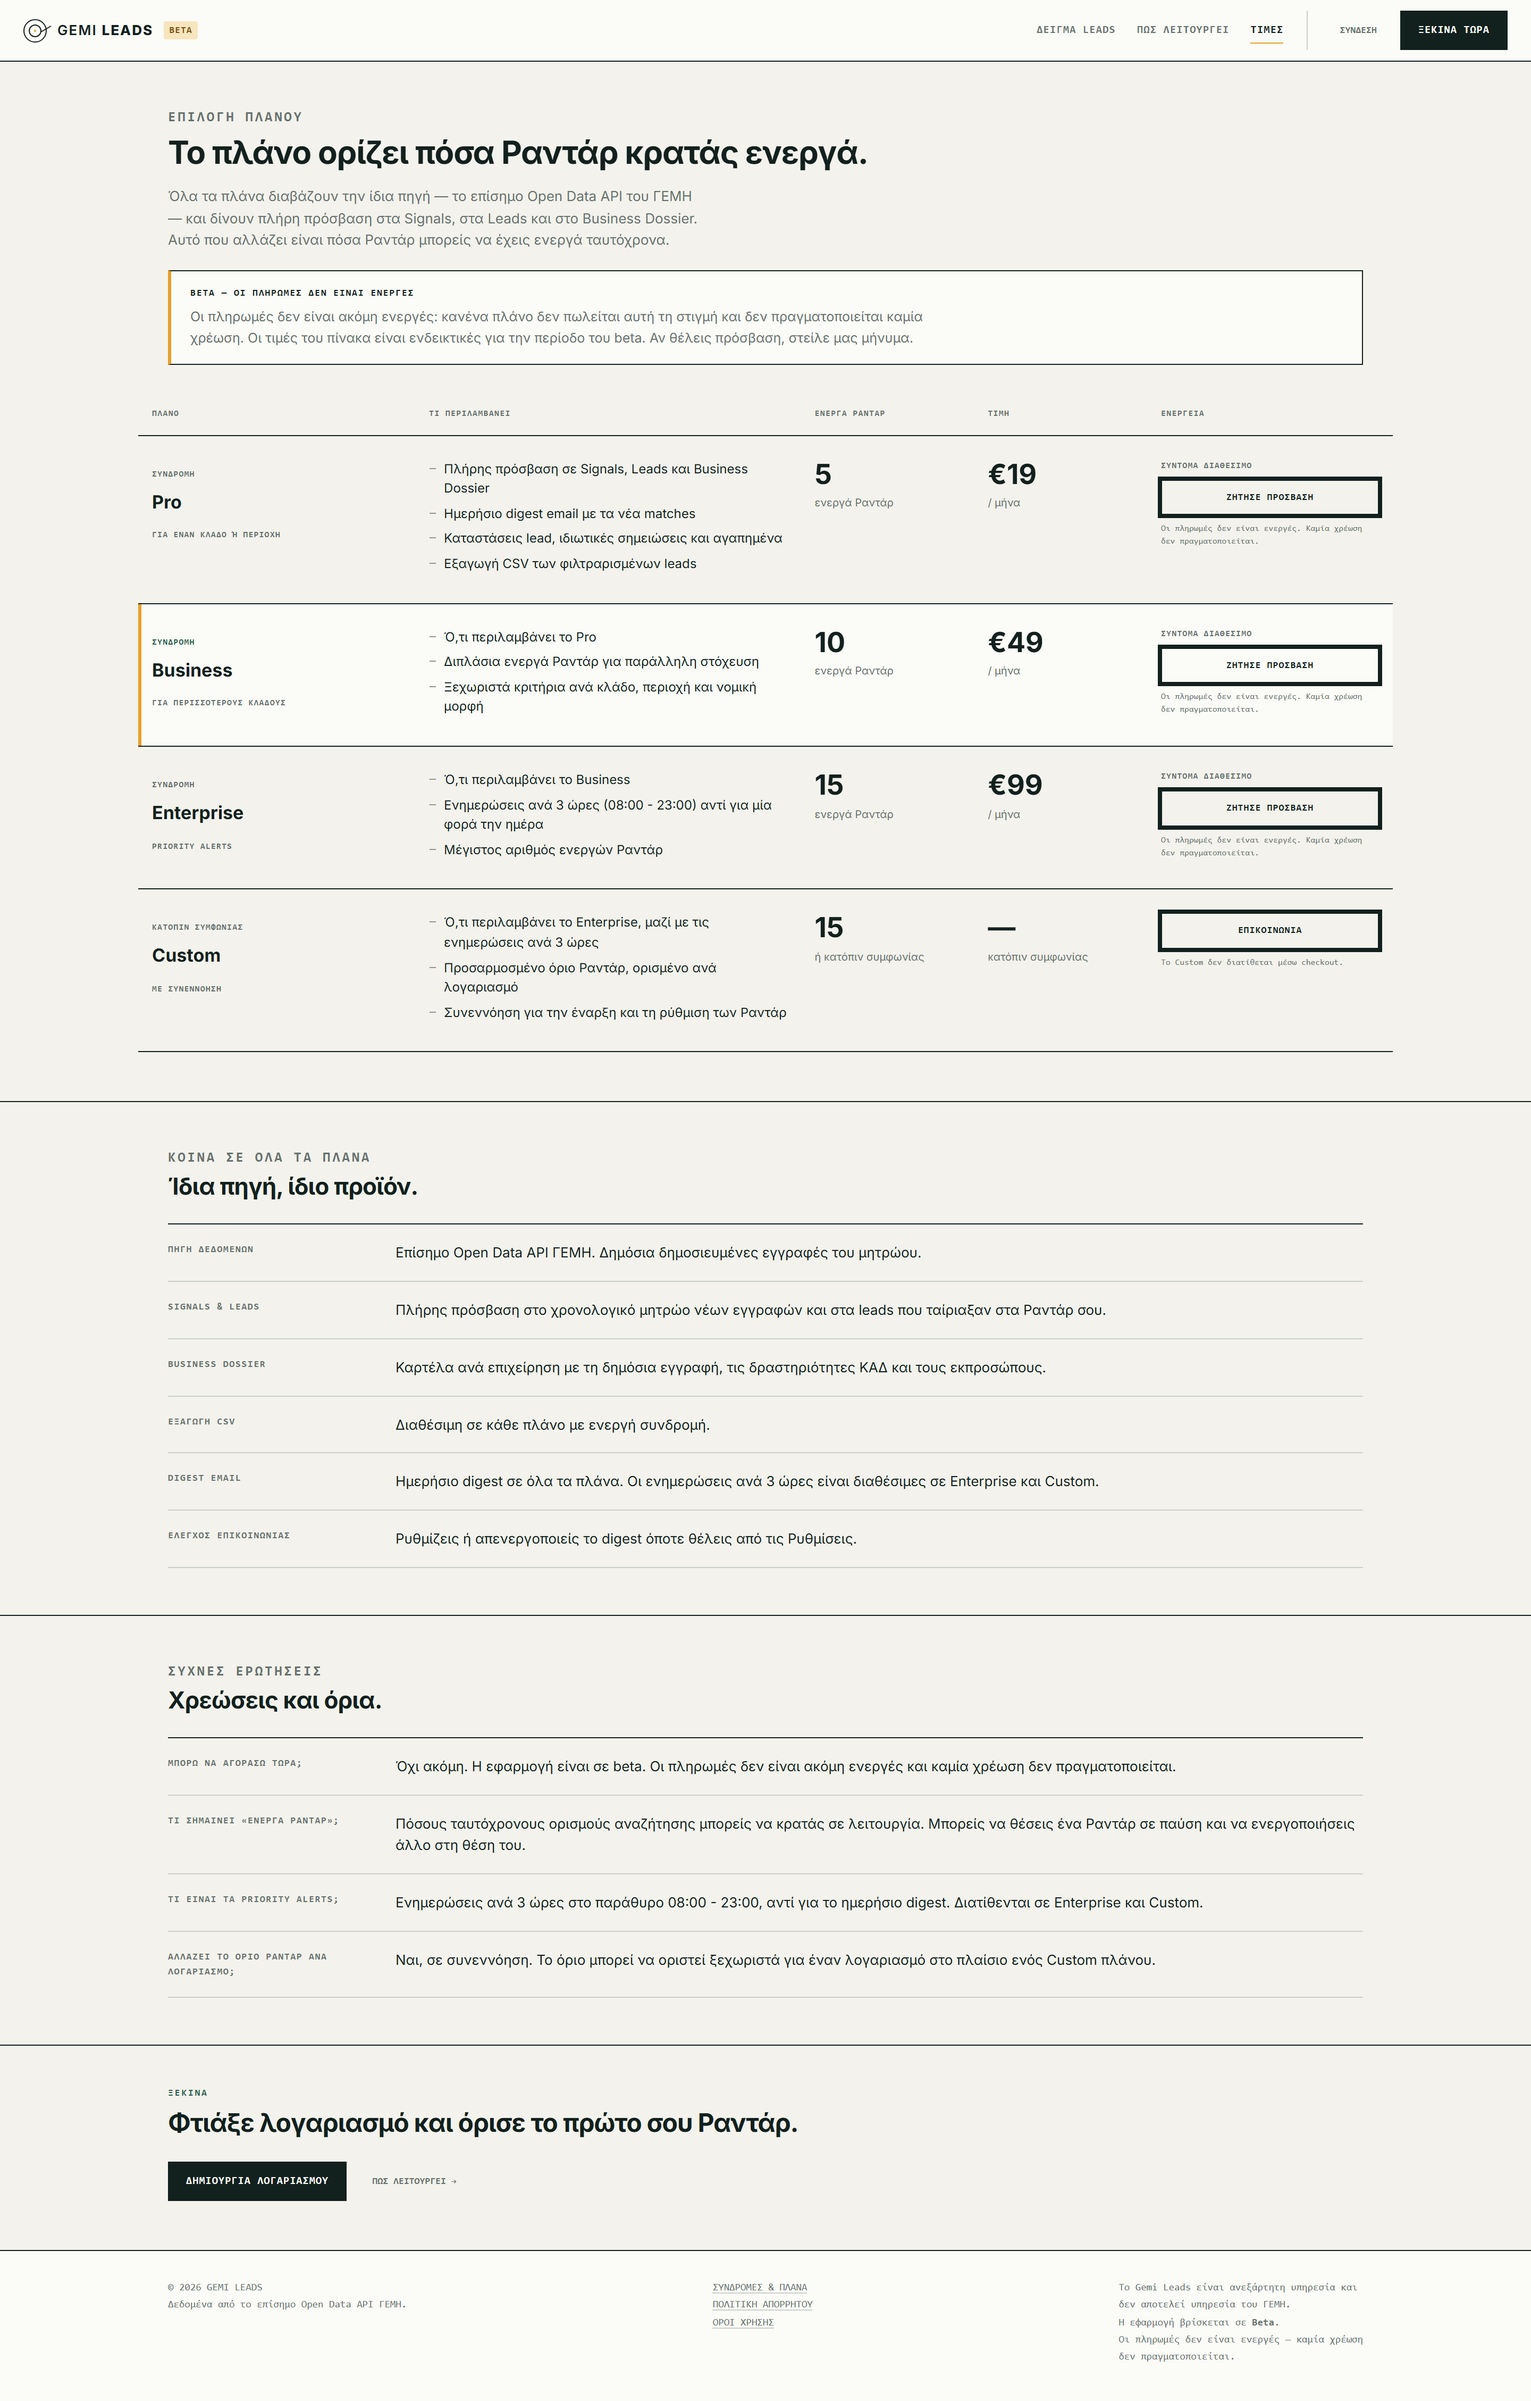
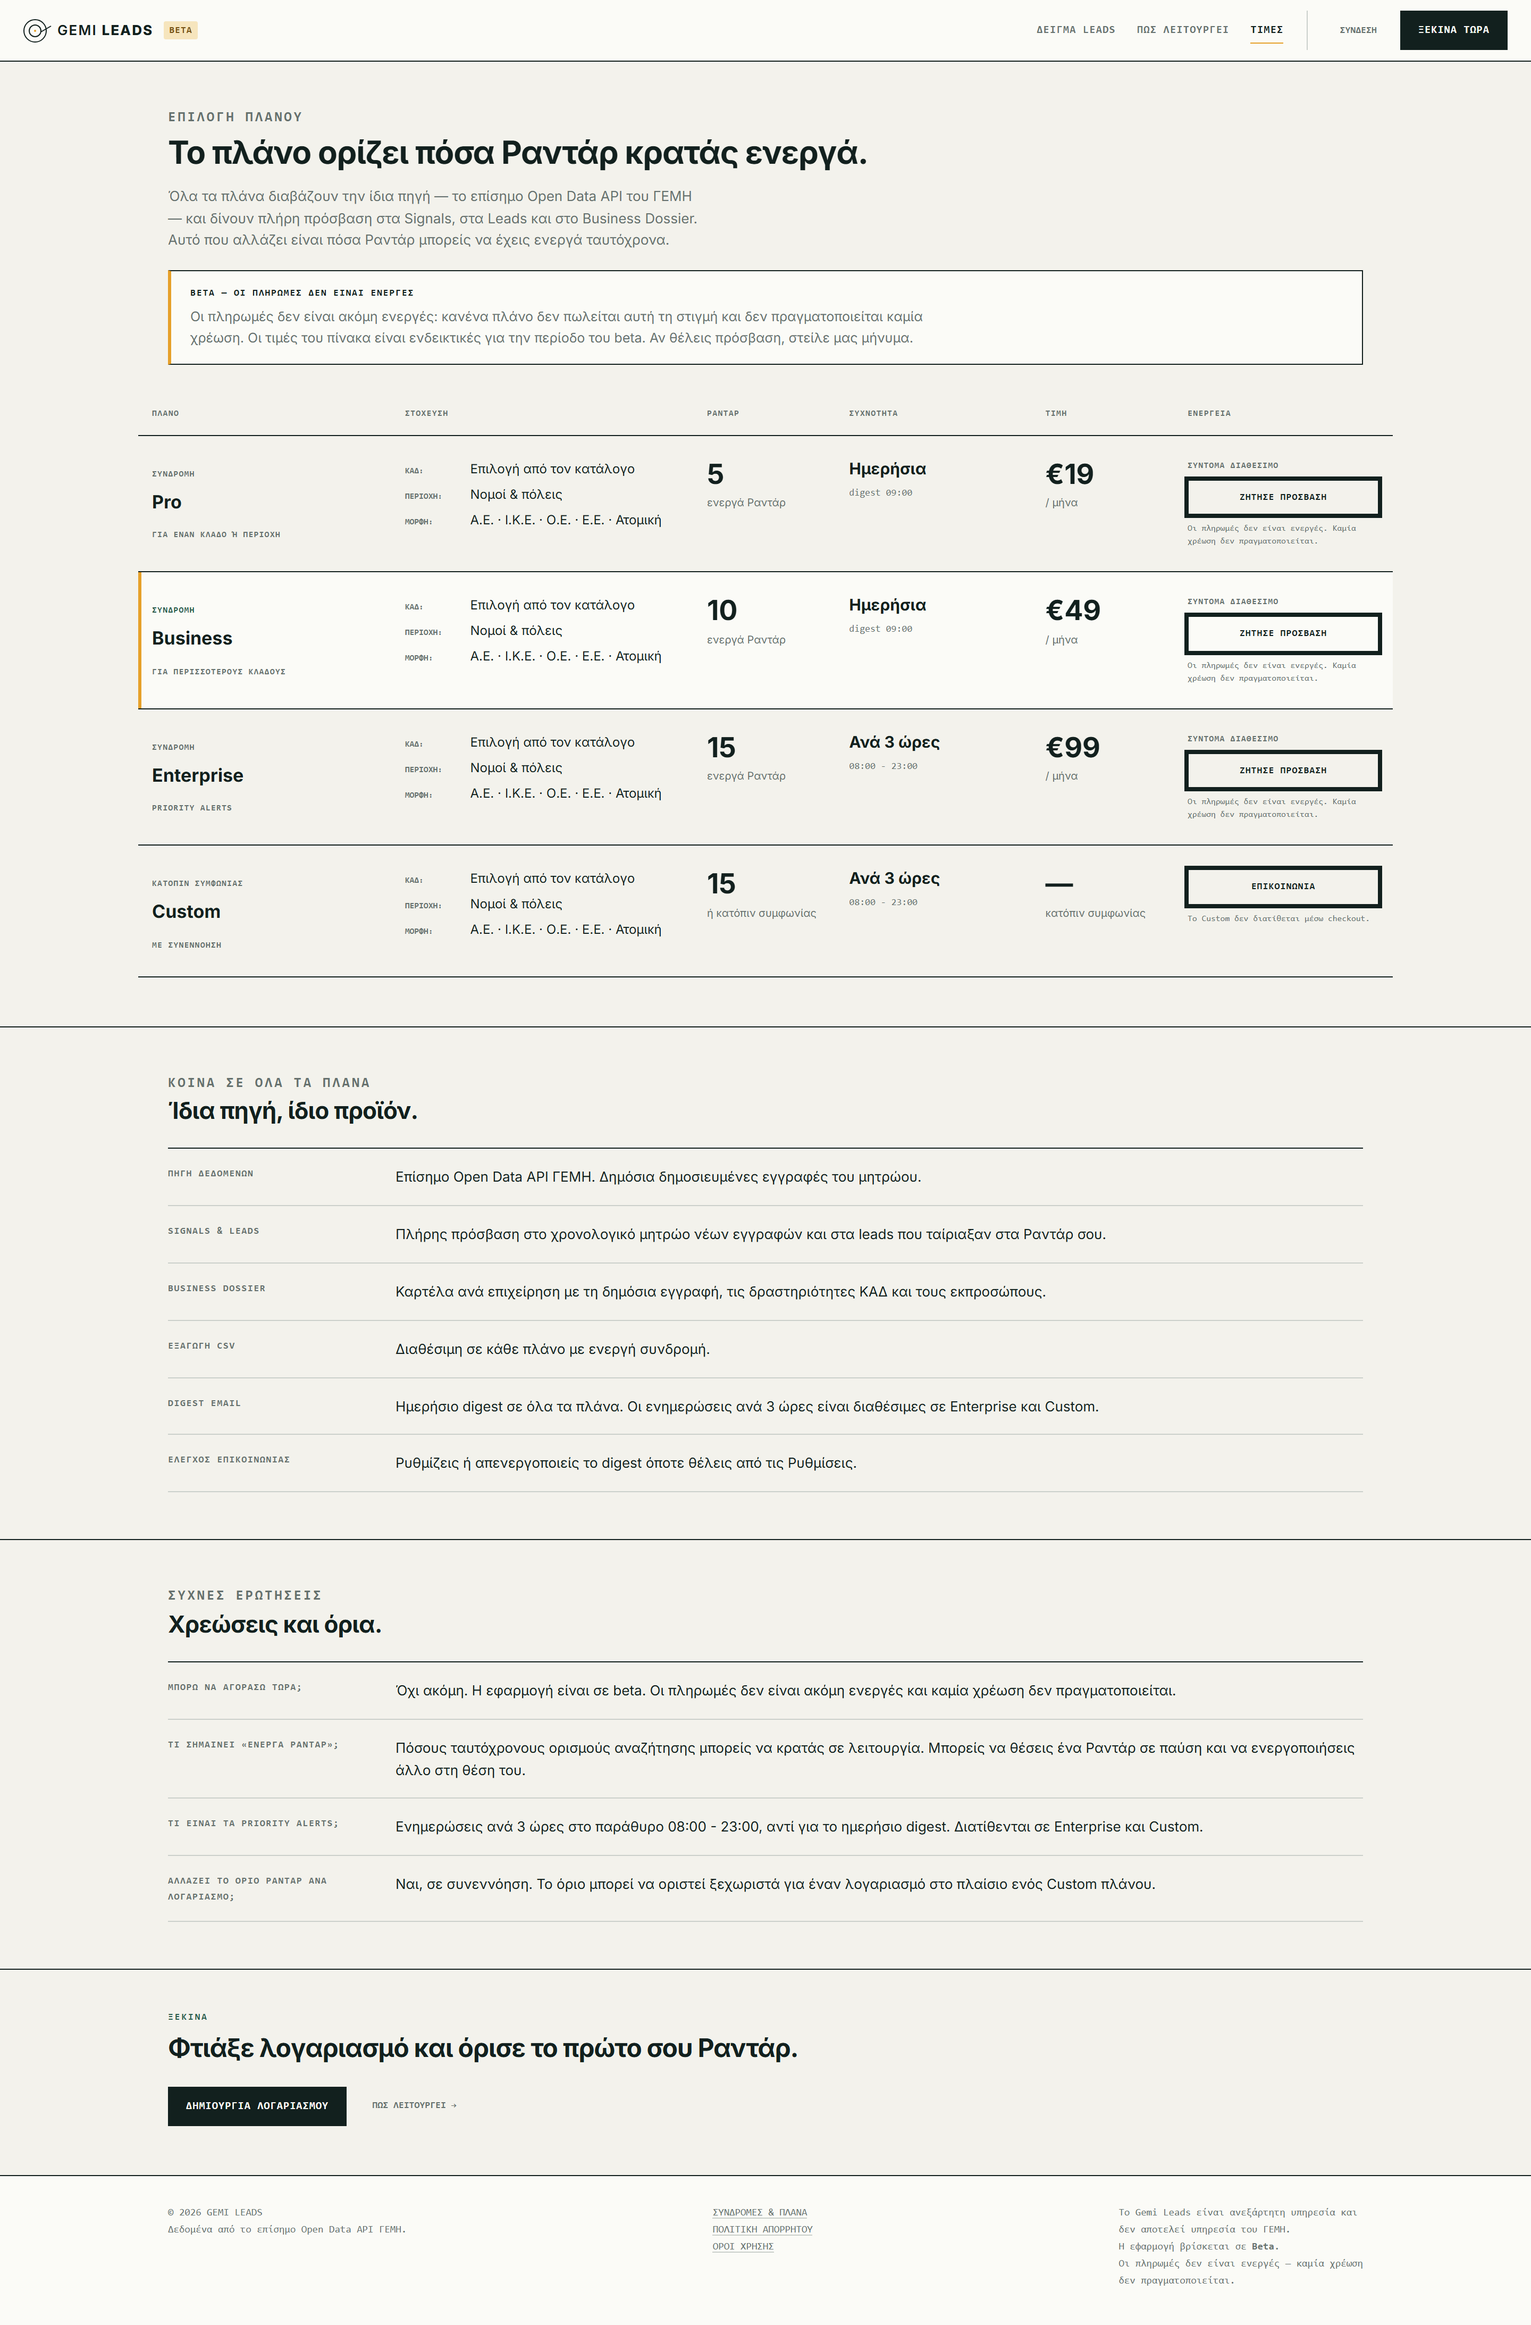
feat(pricing,a11y): six-column plan register and compliance-label contrast
Pricing now carries the register the spec asks for -- PLAN / TARGET / RADARS / FREQUENCY /
PRICE / ACTION -- instead of folding targeting and frequency into a feature list. TARGET uses
the literal .product-criteria grammar from the Radars register (58px mono label, 12px value,
KAD / PERIOXI / MORFI), so a plan row and a Radar row are the same object at a glance.
Frequency gets its own aligned column because it is a fact about the plan, not a feature.

Every figure re-verified against the backend before rendering: RADAR_LIMITS 5/10/15/15,
PLAN_PRICES 19/49/99, SELECTABLE_TIERS excludes custom, SCHEDULES daily 0 9 * * * and
intraday 0 8,11,14,17,20,23 * * *, TOP_TIERS gates the 3-hour window to enterprise/custom.
No unbacked claim rendered: Webhook/database-sync/VIP/unlimited all count 0 in the response;
the four API mentions are all 'Open Data API GEMI', the data source.

Accessibility fix found by the QA sweep: on an active admin rail item the ground is ink, and
--product-red on ink measures 2.59:1, so COLD OUTREACH: DISABLED and ARCHIVED / READ ONLY were
unreadable exactly where they matter. They now use a lightened tint of the same red (~7:1) and
8px instead of 7px, keeping 'red means disabled' while satisfying the requirement that
disabled archive items stay readable. Tag-links and the rail foot link gained real target size.

QA: 5 widths (1440/1280/1024/768/390) across Landing, Pricing, product and Superadmin --
[…]

diff --git a/templates/pricing.html b/templates/pricing.html
@@ -100,30 +100,31 @@
   <div class="public-inner public-plan-register">
     <header>
       <div>ΠΛΑΝΟ</div>
-      <div>ΤΙ ΠΕΡΙΛΑΜΒΑΝΕΙ</div>
-      <div>ΕΝΕΡΓΑ ΡΑΝΤΑΡ</div>
+      <div>ΣΤΟΧΕΥΣΗ</div>
+      <div>ΡΑΝΤΑΡ</div>
+      <div>ΣΥΧΝΟΤΗΤΑ</div>
       <div>ΤΙΜΗ</div>
       <div>ΕΝΕΡΓΕΙΑ</div>
     </header>
 
-    <!-- PRO -->
     <div class="public-plan-row">
       <div>
         <span class="plan-state">ΣΥΝΔΡΟΜΗ</span>
         <h2>Pro</h2>
         <small class="plan-state">ΓΙΑ ΕΝΑΝ ΚΛΑΔΟ Ή ΠΕΡΙΟΧΗ</small>
       </div>
-      <div>
-        <ul>
-          <li>Πλήρης πρόσβαση σε Signals, Leads και Business Dossier</li>
-          <li>Ημερήσιο digest email με τα νέα matches</li>
-          <li>Καταστάσεις lead, ιδιωτικές σημειώσεις και αγαπημένα</li>
-          <li>Εξαγωγή CSV των φιλτραρισμένων leads</li>
-        </ul>
+      <div class="product-criteria">
+        <p><b>ΚΑΔ:</b> Επιλογή από τον κατάλογο</p>
+        <p><b>ΠΕΡΙΟΧΗ:</b> Νομοί &amp; πόλεις</p>
+        <p><b>ΜΟΡΦΗ:</b> Α.Ε. · Ι.Κ.Ε. · Ο.Ε. · Ε.Ε. · Ατομική</p>
       </div>
       <div class="plan-radars">
         <strong>5</strong>
         <span>ενεργά Ραντάρ</span>
+      </div>
+      <div class="plan-frequency">
+        <strong>Ημερήσια</strong>
+        <span>digest 09:00</span>
       </div>
       <div class="plan-price">
         <strong>€19</strong>
@@ -134,23 +135,24 @@
       </div>
     </div>
 
-    <!-- BUSINESS -->
     <div class="public-plan-row featured">
       <div>
         <span class="plan-state on">ΣΥΝΔΡΟΜΗ</span>
         <h2>Business</h2>
         <small class="plan-state">ΓΙΑ ΠΕΡΙΣΣΟΤΕΡΟΥΣ ΚΛΑΔΟΥΣ</small>
       </div>
-      <div>
-        <ul>
-          <li>Ό,τι περιλαμβάνει το Pro</li>
-          <li>Διπλάσια ενεργά Ραντάρ για παράλληλη στόχευση</li>
-          <li>Ξεχωριστά κριτήρια ανά κλάδο, περιοχή και νομική μορφή</li>
-        </ul>
+      <div class="product-criteria">
+        <p><b>ΚΑΔ:</b> Επιλογή από τον κατάλογο</p>
+        <p><b>ΠΕΡΙΟΧΗ:</b> Νομοί &amp; πόλεις</p>
+        <p><b>ΜΟΡΦΗ:</b> Α.Ε. · Ι.Κ.Ε. · Ο.Ε. · Ε.Ε. · Ατομική</p>
       </div>
       <div class="plan-radars">
         <strong>10</strong>
         <span>ενεργά Ραντάρ</span>
+      </div>
+      <div class="plan-frequency">
+        <strong>Ημερήσια</strong>
+        <span>digest 09:00</span>
       </div>
       <div class="plan-price">
         <strong>€49</strong>
@@ -161,23 +163,24 @@
       </div>
     </div>
 
-    <!-- ENTERPRISE / PRIORITY ALERTS -->
     <div class="public-plan-row">
       <div>
         <span class="plan-state">ΣΥΝΔΡΟΜΗ</span>
         <h2>Enterprise</h2>
         <small class="plan-state">PRIORITY ALERTS</small>
       </div>
-      <div>
-        <ul>
-          <li>Ό,τι περιλαμβάνει το Business</li>
-          <li>Ενημερώσεις ανά 3 ώρες (08:00 - 23:00) αντί για μία φορά την ημέρα</li>
-          <li>Μέγιστος αριθμός ενεργών Ραντάρ</li>
-        </ul>
+      <div class="product-criteria">
+        <p><b>ΚΑΔ:</b> Επιλογή από τον κατάλογο</p>
+        <p><b>ΠΕΡΙΟΧΗ:</b> Νομοί &amp; πόλεις</p>
+        <p><b>ΜΟΡΦΗ:</b> Α.Ε. · Ι.Κ.Ε. · Ο.Ε. · Ε.Ε. · Ατομική</p>
       </div>
       <div class="plan-radars">
         <strong>15</strong>
         <span>ενεργά Ραντάρ</span>
+      </div>
+      <div class="plan-frequency">
+        <strong>Ανά 3 ώρες</strong>
+        <span>08:00 - 23:00</span>
       </div>
       <div class="plan-price">
         <strong>€99</strong>
@@ -188,23 +191,24 @@
       </div>
     </div>
 
-    <!-- CUSTOM -->
     <div class="public-plan-row">
       <div>
         <span class="plan-state">ΚΑΤΟΠΙΝ ΣΥΜΦΩΝΙΑΣ</span>
         <h2>Custom</h2>
         <small class="plan-state">ΜΕ ΣΥΝΕΝΝΟΗΣΗ</small>
       </div>
-      <div>
-        <ul>
-          <li>Ό,τι περιλαμβάνει το Enterprise, μαζί με τις ενημερώσεις ανά 3 ώρες</li>
-          <li>Προσαρμοσμένο όριο Ραντάρ, ορισμένο ανά λογαριασμό</li>
-          <li>Συνεννόηση για την έναρξη και τη ρύθμιση των Ραντάρ</li>
-        </ul>
+      <div class="product-criteria">
+        <p><b>ΚΑΔ:</b> Επιλογή από τον κατάλογο</p>
+        <p><b>ΠΕΡΙΟΧΗ:</b> Νομοί &amp; πόλεις</p>
+        <p><b>ΜΟΡΦΗ:</b> Α.Ε. · Ι.Κ.Ε. · Ο.Ε. · Ε.Ε. · Ατομική</p>
       </div>
       <div class="plan-radars">
         <strong>15</strong>
         <span>ή κατόπιν συμφωνίας</span>
+      </div>
+      <div class="plan-frequency">
+        <strong>Ανά 3 ώρες</strong>
+        <span>08:00 - 23:00</span>
       </div>
       <div class="plan-price">
         <strong>—</strong>

diff --git a/static/css/product-ui.css b/static/css/product-ui.css
@@ -1752,11 +1752,14 @@ body.public-body .mono-text {
 /* ---------- PRICING REGISTER (derived from .product-radar-register) ---------- */
 .public-plan-register { padding: 0 0 46px; }
 
+/* Six columns -- PLAN / TARGET / RADARS / FREQUENCY / PRICE / ACTION -- against the Radars
+   register's four. Targeting and frequency are separate facts about a plan, so they get
+   separate aligned columns rather than being buried in a feature list. */
 .public-plan-register > header,
 .public-plan-row {
   display: grid;
-  grid-template-columns: 1.05fr 1.5fr .62fr .62fr 205px;
-  gap: 22px;
+  grid-template-columns: .95fr 1.15fr .5fr .72fr .5fr 180px;
+  gap: 18px;
 }
 
 .public-plan-register > header {
@@ -1818,6 +1821,22 @@ body.public-body .mono-text {
   width: 6px;
   height: 1px;
   background: var(--product-state-rule);
+}
+
+/* Frequency is a phrase, not a numeral, so it takes the same slot at a smaller size --
+   the figure grammar stays for the two columns that really are figures. */
+.public-plan-row .plan-frequency strong {
+  display: block;
+  font-size: 15px;
+  font-weight: 700;
+  color: var(--product-ink);
+  line-height: 1.2;
+}
+
+.public-plan-row .plan-frequency span {
+  font-family: ui-monospace, SFMono-Regular, Menlo, Monaco, Consolas, monospace;
+  font-size: 9px;
+  color: var(--product-muted);
 }
 
 .public-plan-row .plan-price strong,
@@ -1947,13 +1966,16 @@ body.admin-body input:focus-visible {
   .public-plan-row > div:last-child { margin-bottom: 0; }
 
   .public-plan-row .plan-price,
-  .public-plan-row .plan-radars {
+  .public-plan-row .plan-radars,
+  .public-plan-row .plan-frequency {
     display: flex;
     align-items: baseline;
     gap: 10px;
     padding-top: 12px;
     border-top: 1px solid var(--product-line);
   }
+
+  .public-plan-row .plan-frequency strong { font-size: 15px; }
 
   .public-plan-row .plan-price strong,
   .public-plan-row .plan-radars strong { font-size: 21px; }
@@ -2114,10 +2136,17 @@ body.admin-body input:focus-visible {
   display: block;
   margin-top: 2px;
   font-family: ui-monospace, SFMono-Regular, Menlo, Monaco, Consolas, monospace;
-  font-size: 7px;
+  font-size: 8px;
   font-weight: 700;
   letter-spacing: .1em;
-  color: #99443b;
+  color: var(--product-red);
+}
+
+/* On the active rail item the ground is ink, and --product-red on ink measures 2.59:1.
+   A lightened tint of the same red keeps "red means disabled" while reading at ~7:1.
+   These labels are compliance state, so they have to stay legible in every state. */
+.admin-rail a[aria-current="page"] .admin-off {
+  color: #e9a79f;
 }
 
 .admin-rail-foot {
@@ -2126,7 +2155,7 @@ body.admin-body input:focus-visible {
 }
 
 .admin-rail-foot a {
-  padding: 0;
+  padding: 6px 0;
   font-family: ui-monospace, SFMono-Regular, Menlo, Monaco, Consolas, monospace;
   font-size: 9px;
   font-weight: 600;
@@ -2284,6 +2313,19 @@ body.admin-body input:focus-visible {
   text-transform: uppercase;
   color: var(--product-muted);
   white-space: nowrap;
+}
+
+/* .admin-tag doubles as a status chip and as a row action link. As a link it needs a
+   usable target, so anchors get extra padding without changing the chip's look. */
+a.admin-tag {
+  padding: 6px 9px;
+  text-decoration: none;
+}
+
+a.admin-tag:hover {
+  background: var(--product-ink);
+  color: var(--product-white);
+  border-color: var(--product-ink);
 }
 
 .admin-tag.on { color: var(--product-green); border-color: var(--product-green); }
